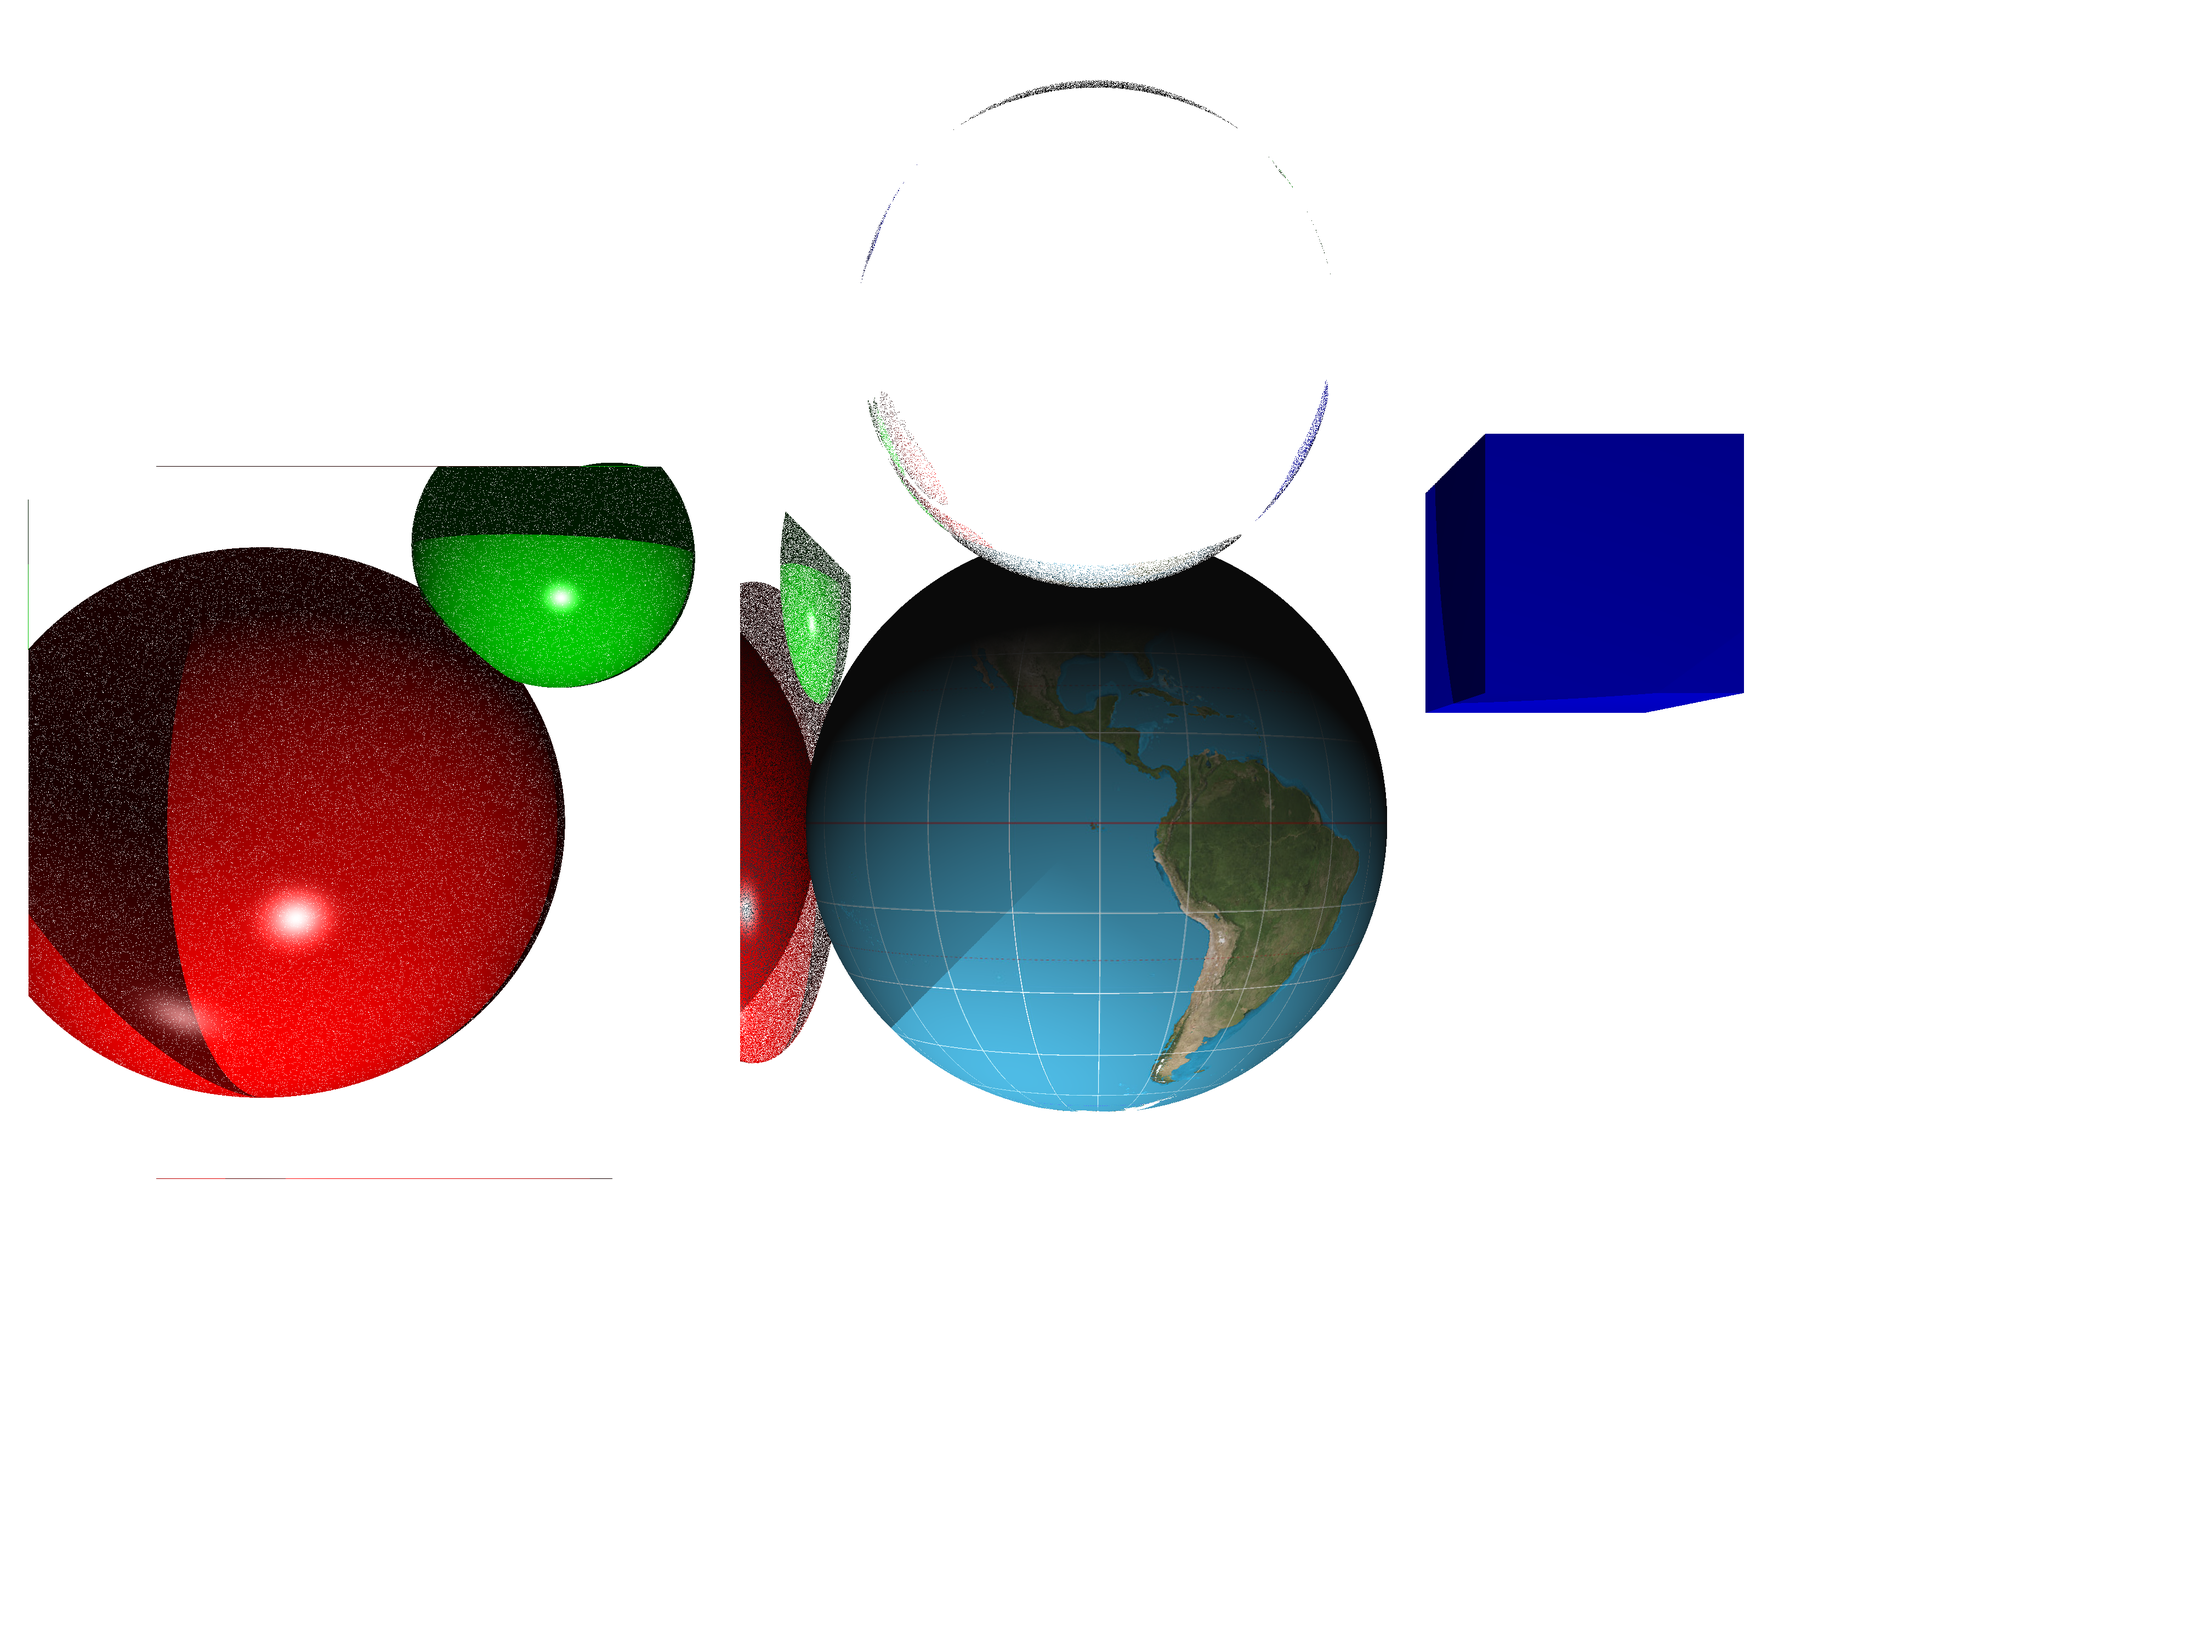
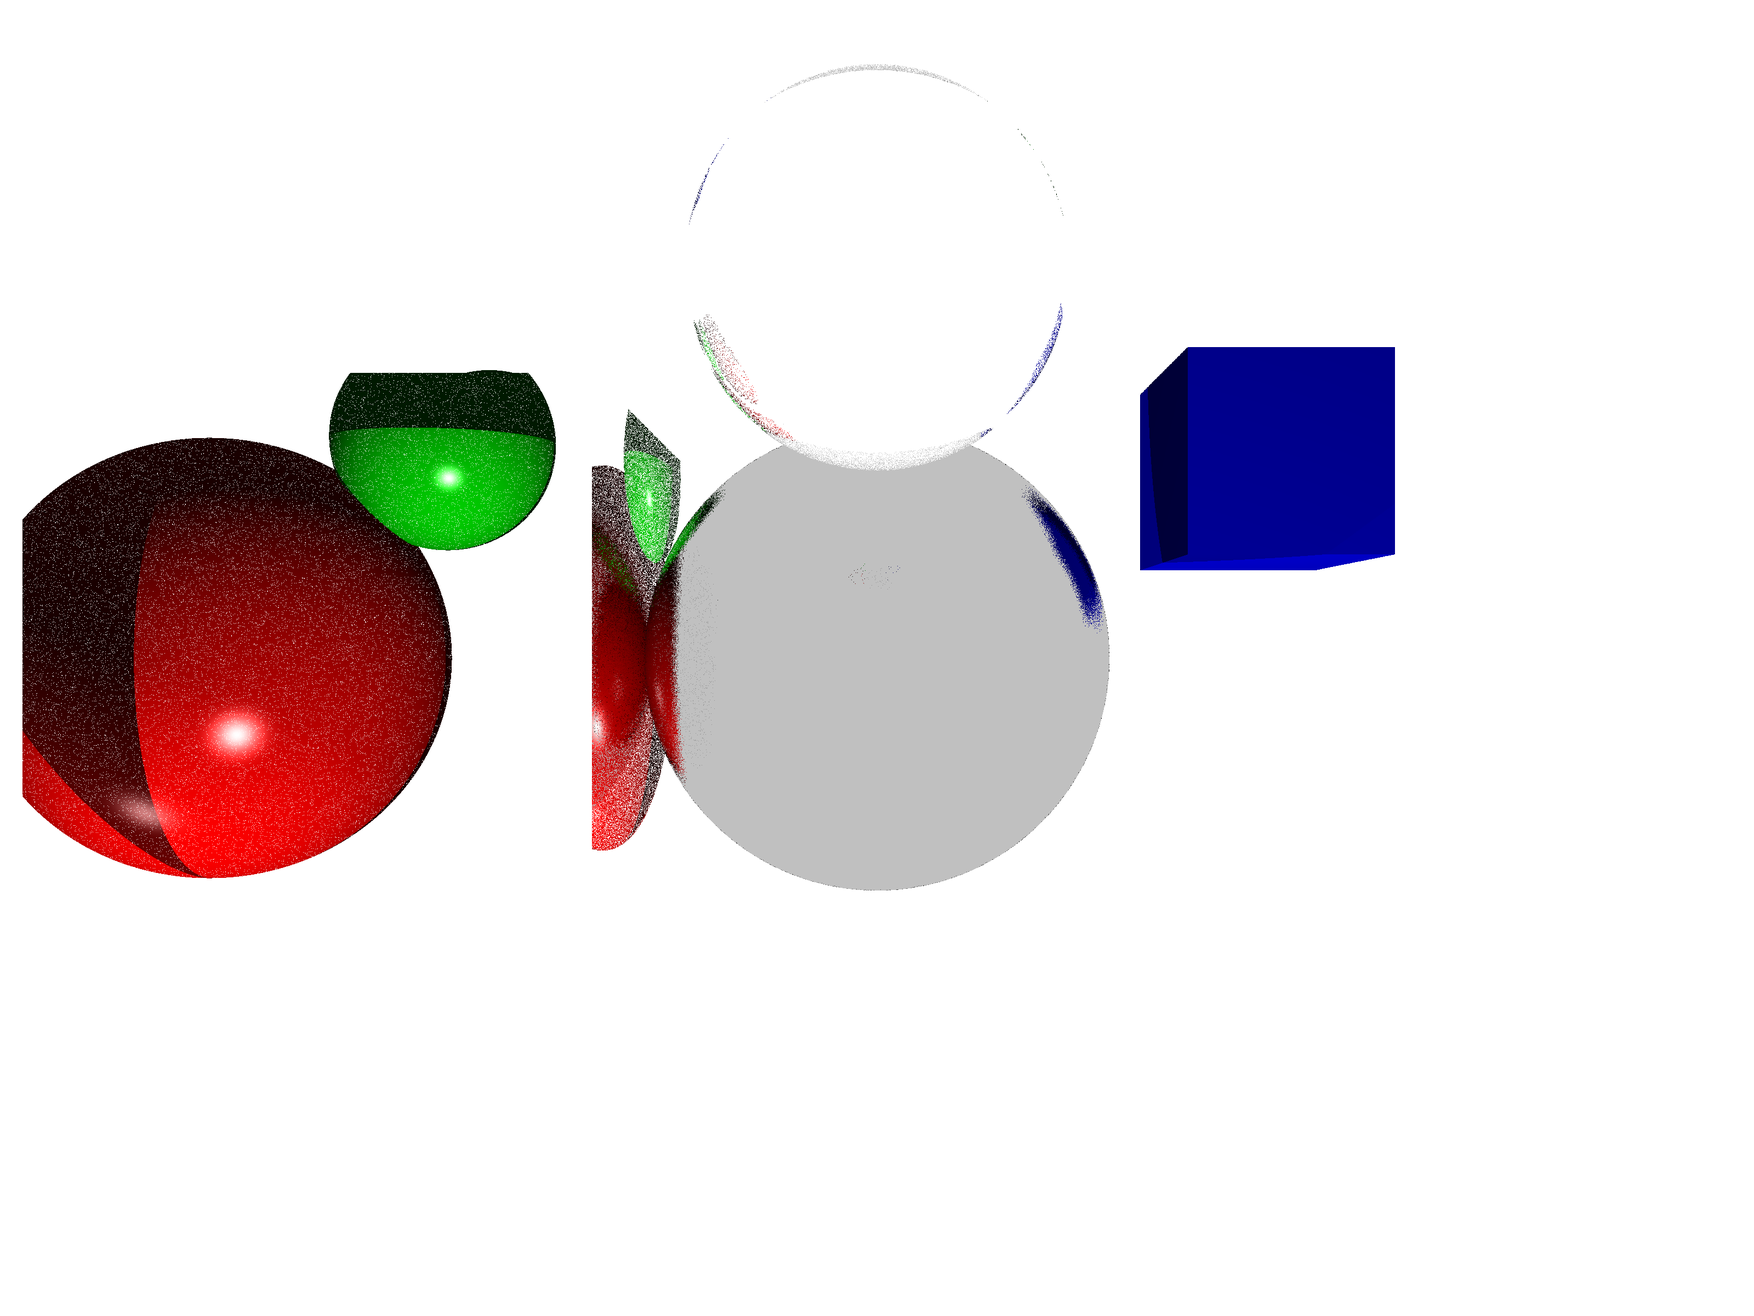
sinusoidal material added

diff --git a/src/main/java/org/example/Main.java b/src/main/java/org/example/Main.java
@@ -9,7 +9,7 @@ import org.example.objects.Sphere;
 import org.example.scene.Camera;
 import org.example.scene.Light;
 import org.example.scene.Scene;
-import org.example.textures.*;
+import org.example.material.textures.*;
 
 import javax.imageio.ImageIO;
 import java.awt.*;
@@ -18,7 +18,7 @@ import java.io.File;
 import java.io.IOException;
 
 public class Main {
-    public static final int SCALE = 5;
+    public static final int SCALE = 4;
     public static final int WIDTH = 800 * SCALE;
     public static final int HEIGHT = 600 * SCALE;
     public static final int MAX_DEPTH = 5;
@@ -32,10 +32,16 @@ public class Main {
 
         // Материалы
         // Texture
-        System.out.println("Working Directory = " + System.getProperty("user.dir"));
-
         Texture earthTexture = new ImageTexture("src/main/resources/earth.jpg");
+
+        SinusoidalTexture sinusoidalTexture = new SinusoidalTexture();
+        sinusoidalTexture.setBase(new Color(120, 110, 100));
+        sinusoidalTexture.setMultiply(100);
+        sinusoidalTexture.setVeined(new Color(200, 200, 200));
+
+        // TextureMaterial
         Material earth = new TextureMaterial(earthTexture);
+        Material sinusoidalMaterial = new TextureMaterial(sinusoidalTexture);
 
         // Diffuse
         Material redPhong = new PhongMaterial(new Color(255, 0, 0), 0.1, 0.7, 0.6, 64);
@@ -49,7 +55,7 @@ public class Main {
         Material metal = new MetalMaterial(new Color(192, 192, 192), 0.1);
 
         // Объекты
-        scene.addObject(new Sphere(new Vector3(0, 0, -5), 1, earth));
+        scene.addObject(new Sphere(new Vector3(0, 0, -5), 1, metal));
         scene.addObject(new Sphere(new Vector3(-2, -1, -6), 0.5, greenPhong));
         scene.addObject(new Sphere(new Vector3(0, -1, -3), 0.5, glass));
         scene.addObject(new Sphere(new Vector3(-3, 0, -6), 1, redPhong));

diff --git a/src/main/java/org/example/material/textures/SinusoidalTexture.java b/src/main/java/org/example/material/textures/SinusoidalTexture.java
@@ -1,0 +1,44 @@
+package org.example.material.textures;
+
+import org.example.math.Vector3;
+
+import java.awt.*;
+
+
+public class SinusoidalTexture implements Texture {
+    int multiply = 5;
+    Color base = new Color(120, 110, 100); // серо-коричневый
+    Color veined = new Color(200, 200, 200);
+
+    @Override
+    public Color getColor(double u, double v, Vector3 point) {
+        // Псевдошум: волны по координатам
+        double pattern = Math.sin(multiply * point.x + 5 * Math.sin(multiply * point.z))
+                + Math.sin(multiply * point.y + 5 * Math.sin(multiply * point.x));
+
+        pattern = (Math.sin(pattern) + 1) / 2.0; // [0, 1]
+
+        // Интерполяция цвета
+        int r = (int)(base.getRed() * (1 - pattern) + veined.getRed() * pattern);
+        int g = (int)(base.getGreen() * (1 - pattern) + veined.getGreen() * pattern);
+        int b = (int)(base.getBlue() * (1 - pattern) + veined.getBlue() * pattern);
+
+        return new Color(clamp(r), clamp(g), clamp(b));
+    }
+
+    private int clamp(int c) {
+        return Math.max(0, Math.min(255, c));
+    }
+
+    public void setMultiply(int multiply) {
+        this.multiply = multiply;
+    }
+
+    public void setBase(Color base) {
+        this.base = base;
+    }
+
+    public void setVeined(Color veined) {
+        this.veined = veined;
+    }
+}

diff --git a/src/main/java/org/example/material/TextureMaterial.java b/src/main/java/org/example/material/TextureMaterial.java
@@ -2,7 +2,7 @@ package org.example.material;
 
 import org.example.math.Ray;
 import org.example.objects.HitResult;
-import org.example.textures.Texture;
+import org.example.material.textures.Texture;
 
 import java.awt.*;
 

diff --git a/src/main/java/org/example/material/textures/ImageTexture.java b/src/main/java/org/example/material/textures/ImageTexture.java
@@ -1,4 +1,4 @@
-package org.example.textures;
+package org.example.material.textures;
 
 import org.example.math.Vector3;
 

diff --git a/src/main/java/org/example/material/textures/Texture.java b/src/main/java/org/example/material/textures/Texture.java
@@ -1,4 +1,4 @@
-package org.example.textures;
+package org.example.material.textures;
 
 import org.example.math.Vector3;
 
